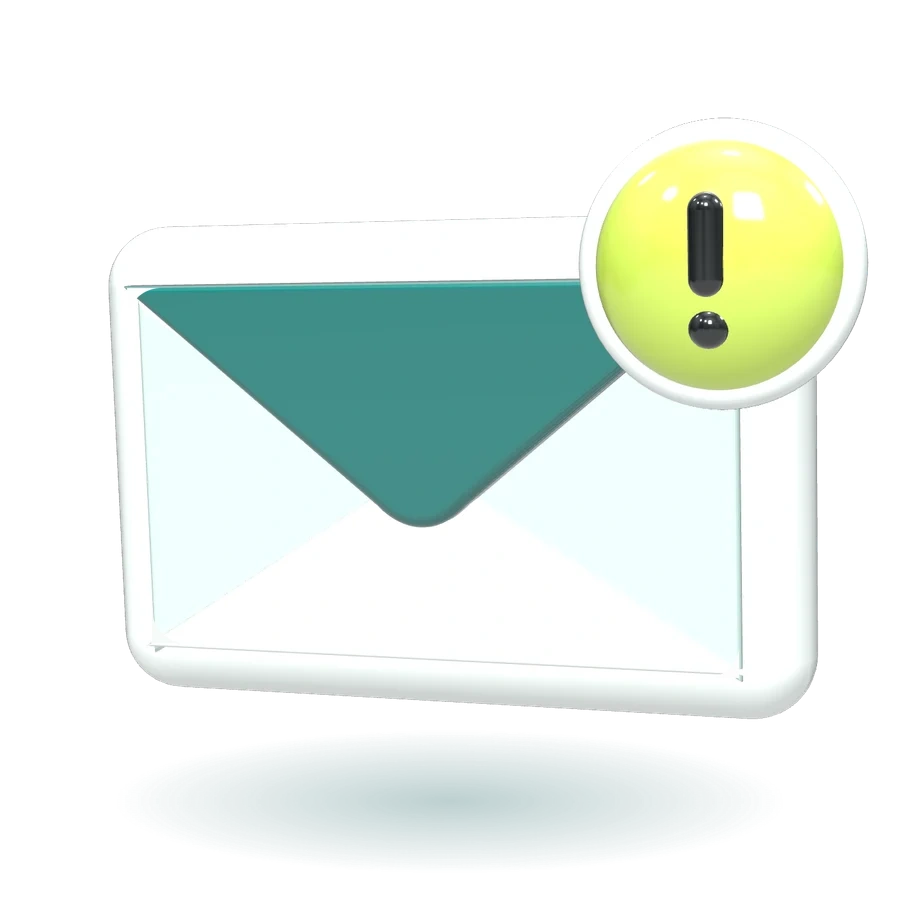
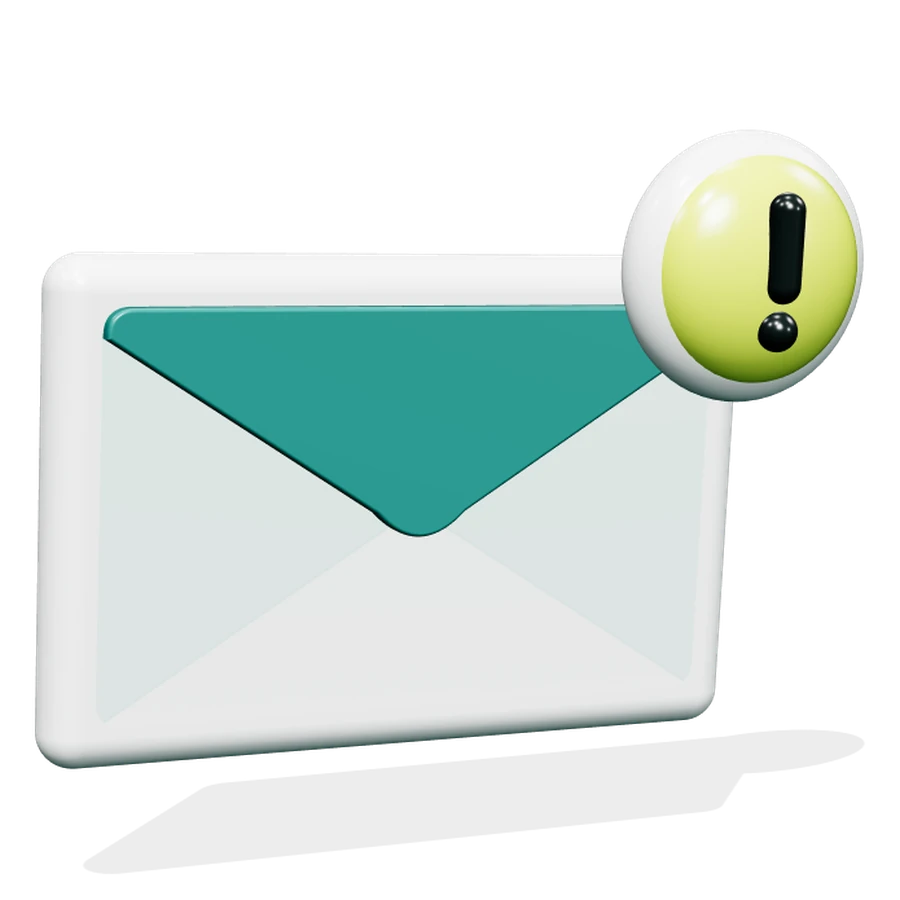
Version 12.1 (gebaut)
Claude-Session: https://claude.ai/code/session_018Wc4TpbFcR54odGWMa1RDx

diff --git a/en/start.html b/en/start.html
@@ -17,7 +17,7 @@
 <meta property="og:url" content="https://lou-digital.de/en/">
 <meta property="og:image" content="https://lou-digital.de/img/fig-web.webp?v=7ac4f9f6">
 <link rel="preload" href="/fonts/instrument-sans-latin-wght-normal.woff2" as="font" type="font/woff2" crossorigin>
-<link rel="stylesheet" href="/css/site.css?v=565d0e78">
+<link rel="stylesheet" href="/css/site.css?v=6f8ec4c9">
 <script>document.documentElement.classList.add('js');setTimeout(function(){if(!window.__ldReady)document.documentElement.classList.remove('js')},2500);</script>
 <script type="application/ld+json">{"@context": "https://schema.org", "@type": "ProfessionalService", "name": "Lou Digital", "url": "https://lou-digital.de/en/", "email": "info@lou-digital.de", "founder": {"@type": "Person", "name": "Adrian Semlinger"}, "address": {"@type": "PostalAddress", "addressLocality": "Karlsruhe", "addressRegion": "Baden-Württemberg", "addressCountry": "DE"}, "areaServed": "DE", "telephone": "+49 156 30163539"}</script>
 </head>
@@ -44,13 +44,13 @@
       </div>
       <div class="blocks" aria-hidden="true">
         <div class="blk blk--petrol"><img class="fig" src="/img/fig-web.webp?v=7ac4f9f6" width="900" height="900" alt="" style="--f:94%" decoding="async"></div>
-        <div class="blk blk--ink"><img class="fig" src="/img/fig-mail.webp?v=dfea19f3" width="900" height="900" alt="" style="--f:96%" decoding="async"></div>
+        <div class="blk blk--ink"><img class="fig" src="/img/fig-mail.webp?v=47e3529c" width="900" height="900" alt="" style="--f:96%" decoding="async"></div>
         <div class="blk blk--lime"><img class="fig" src="/img/fig-box.webp?v=d7bd06c3" width="900" height="900" alt="" style="--f:86%" decoding="async"></div>
         <div class="blk blk--mint dots"><img class="fig" src="/img/fig-clip.webp?v=ed7c0325" width="900" height="900" alt="" style="--f:98%" decoding="async"></div>
       </div>
     </div>
   </section>
-  <section class="sec sec--tight"><div class="wrap"><div class="teasers"><a class="teaser teaser--petrol" href="/en/websites" data-reveal style="--d:0.00s"><span><h3>Website in 7 days</h3><p>One-pager or up to 5 pages, from €390.</p><span class="go">View</span></span><img src="/img/fig-web.webp?v=7ac4f9f6" width="900" height="900" alt="" loading="lazy" decoding="async"></a><a class="teaser teaser--ink" href="/en/automation" data-reveal style="--d:0.06s"><span><h3>Inquiry automation</h3><p>Every inquiry instantly on your phone.</p><span class="go">View</span></span><img src="/img/fig-mail.webp?v=dfea19f3" width="900" height="900" alt="" loading="lazy" decoding="async"></a><a class="teaser teaser--mint dots" href="/en/website-check" data-reveal style="--d:0.12s"><span><h3>Website check</h3><p>Five checkpoints, free of charge.</p><span class="go">View</span></span><img src="/img/fig-clip.webp?v=ed7c0325" width="900" height="900" alt="" loading="lazy" decoding="async"></a><a class="teaser teaser--lime" href="/en/custom" data-reveal style="--d:0.18s"><span><h3>Custom package</h3><p>Pick building blocks, see the price instantly.</p><span class="go">View</span></span><img src="/img/fig-box.webp?v=d7bd06c3" width="900" height="900" alt="" loading="lazy" decoding="async"></a></div></div></section>
+  <section class="sec sec--tight"><div class="wrap"><div class="teasers"><a class="teaser teaser--petrol" href="/en/websites" data-reveal style="--d:0.00s"><span><h3>Website in 7 days</h3><p>One-pager or up to 5 pages, from €390.</p><span class="go">View</span></span><img src="/img/fig-web.webp?v=7ac4f9f6" width="900" height="900" alt="" loading="lazy" decoding="async"></a><a class="teaser teaser--ink" href="/en/automation" data-reveal style="--d:0.06s"><span><h3>Inquiry automation</h3><p>Every inquiry instantly on your phone.</p><span class="go">View</span></span><img src="/img/fig-mail.webp?v=47e3529c" width="900" height="900" alt="" loading="lazy" decoding="async"></a><a class="teaser teaser--mint" href="/en/website-check" data-reveal style="--d:0.12s"><span><h3>Website check</h3><p>Five checkpoints, free of charge.</p><span class="go">View</span></span><img src="/img/fig-clip.webp?v=ed7c0325" width="900" height="900" alt="" loading="lazy" decoding="async"></a><a class="teaser teaser--lime" href="/en/custom" data-reveal style="--d:0.18s"><span><h3>Custom package</h3><p>Pick building blocks, see the price instantly.</p><span class="go">View</span></span><img src="/img/fig-box.webp?v=d7bd06c3" width="900" height="900" alt="" loading="lazy" decoding="async"></a></div></div></section>
   <section class="sec" id="websites">
     <div class="wrap split">
       <div class="copy">
@@ -64,7 +64,7 @@
   </section>
   <section class="sec band" id="automatik">
     <div class="wrap split split--rev">
-      <div class="stage stage--petrol" data-reveal="scale"><img class="fig" src="/img/fig-mail.webp?v=dfea19f3" width="900" height="900" alt="" style="--f:66%" decoding="async"></div>
+      <div class="stage stage--petrol" data-reveal="scale"><img class="fig" src="/img/fig-mail.webp?v=47e3529c" width="900" height="900" alt="" style="--f:66%" decoding="async"></div>
       <div class="copy">
         <h2 class="h2" data-reveal>Inquiry automation</h2>
         <p class="muted" data-reveal style="--d:.05s">Every inquiry from your form reaches you instantly. No digging through your inbox, no inquiry gets lost.</p>
@@ -125,7 +125,7 @@
     </div>
     <div class="trio" aria-hidden="true" data-reveal="scale">
       <div class="blk blk--petrol"><img class="fig" src="/img/fig-web.webp?v=7ac4f9f6" width="900" height="900" alt="" style="--f:84%" decoding="async"></div>
-      <div class="blk blk--ink"><img class="fig" src="/img/fig-mail.webp?v=dfea19f3" width="900" height="900" alt="" style="--f:86%" decoding="async"></div>
+      <div class="blk blk--ink"><img class="fig" src="/img/fig-mail.webp?v=47e3529c" width="900" height="900" alt="" style="--f:86%" decoding="async"></div>
       <div class="blk blk--mint dots"><img class="fig" src="/img/fig-clip.webp?v=ed7c0325" width="900" height="900" alt="" style="--f:84%" decoding="async"></div>
     </div>
   </div>

diff --git a/start.html b/start.html
@@ -17,7 +17,7 @@
 <meta property="og:url" content="https://lou-digital.de/">
 <meta property="og:image" content="https://lou-digital.de/img/fig-web.webp?v=7ac4f9f6">
 <link rel="preload" href="/fonts/instrument-sans-latin-wght-normal.woff2" as="font" type="font/woff2" crossorigin>
-<link rel="stylesheet" href="/css/site.css?v=565d0e78">
+<link rel="stylesheet" href="/css/site.css?v=6f8ec4c9">
 <script>document.documentElement.classList.add('js');setTimeout(function(){if(!window.__ldReady)document.documentElement.classList.remove('js')},2500);</script>
 <script type="application/ld+json">{"@context": "https://schema.org", "@type": "ProfessionalService", "name": "Lou Digital", "url": "https://lou-digital.de/", "email": "info@lou-digital.de", "founder": {"@type": "Person", "name": "Adrian Semlinger"}, "address": {"@type": "PostalAddress", "addressLocality": "Karlsruhe", "addressRegion": "Baden-Württemberg", "addressCountry": "DE"}, "areaServed": "DE", "telephone": "+49 156 30163539"}</script>
 </head>
@@ -44,13 +44,13 @@
       </div>
       <div class="blocks" aria-hidden="true">
         <div class="blk blk--petrol"><img class="fig" src="/img/fig-web.webp?v=7ac4f9f6" width="900" height="900" alt="" style="--f:94%" decoding="async"></div>
-        <div class="blk blk--ink"><img class="fig" src="/img/fig-mail.webp?v=dfea19f3" width="900" height="900" alt="" style="--f:96%" decoding="async"></div>
+        <div class="blk blk--ink"><img class="fig" src="/img/fig-mail.webp?v=47e3529c" width="900" height="900" alt="" style="--f:96%" decoding="async"></div>
         <div class="blk blk--lime"><img class="fig" src="/img/fig-box.webp?v=d7bd06c3" width="900" height="900" alt="" style="--f:86%" decoding="async"></div>
         <div class="blk blk--mint dots"><img class="fig" src="/img/fig-clip.webp?v=ed7c0325" width="900" height="900" alt="" style="--f:98%" decoding="async"></div>
       </div>
     </div>
   </section>
-  <section class="sec sec--tight"><div class="wrap"><div class="teasers"><a class="teaser teaser--petrol" href="/websites" data-reveal style="--d:0.00s"><span><h3>Website in 7 Tagen</h3><p>Onepager oder bis zu 5 Seiten, ab 390 €.</p><span class="go">Ansehen</span></span><img src="/img/fig-web.webp?v=7ac4f9f6" width="900" height="900" alt="" loading="lazy" decoding="async"></a><a class="teaser teaser--ink" href="/automatik" data-reveal style="--d:0.06s"><span><h3>Anfrage-Automatik</h3><p>Jede Anfrage sofort auf Ihrem Handy.</p><span class="go">Ansehen</span></span><img src="/img/fig-mail.webp?v=dfea19f3" width="900" height="900" alt="" loading="lazy" decoding="async"></a><a class="teaser teaser--mint dots" href="/website-check" data-reveal style="--d:0.12s"><span><h3>Website-Check</h3><p>Fünf Prüfpunkte, kostenlos.</p><span class="go">Ansehen</span></span><img src="/img/fig-clip.webp?v=ed7c0325" width="900" height="900" alt="" loading="lazy" decoding="async"></a><a class="teaser teaser--lime" href="/individuell" data-reveal style="--d:0.18s"><span><h3>Individuelles Paket</h3><p>Bausteine wählen, Preis sofort sehen.</p><span class="go">Ansehen</span></span><img src="/img/fig-box.webp?v=d7bd06c3" width="900" height="900" alt="" loading="lazy" decoding="async"></a></div></div></section>
+  <section class="sec sec--tight"><div class="wrap"><div class="teasers"><a class="teaser teaser--petrol" href="/websites" data-reveal style="--d:0.00s"><span><h3>Website in 7 Tagen</h3><p>Onepager oder bis zu 5 Seiten, ab 390 €.</p><span class="go">Ansehen</span></span><img src="/img/fig-web.webp?v=7ac4f9f6" width="900" height="900" alt="" loading="lazy" decoding="async"></a><a class="teaser teaser--ink" href="/automatik" data-reveal style="--d:0.06s"><span><h3>Anfrage-Automatik</h3><p>Jede Anfrage sofort auf Ihrem Handy.</p><span class="go">Ansehen</span></span><img src="/img/fig-mail.webp?v=47e3529c" width="900" height="900" alt="" loading="lazy" decoding="async"></a><a class="teaser teaser--mint" href="/website-check" data-reveal style="--d:0.12s"><span><h3>Website-Check</h3><p>Fünf Prüfpunkte, kostenlos.</p><span class="go">Ansehen</span></span><img src="/img/fig-clip.webp?v=ed7c0325" width="900" height="900" alt="" loading="lazy" decoding="async"></a><a class="teaser teaser--lime" href="/individuell" data-reveal style="--d:0.18s"><span><h3>Individuelles Paket</h3><p>Bausteine wählen, Preis sofort sehen.</p><span class="go">Ansehen</span></span><img src="/img/fig-box.webp?v=d7bd06c3" width="900" height="900" alt="" loading="lazy" decoding="async"></a></div></div></section>
   <section class="sec" id="websites">
     <div class="wrap split">
       <div class="copy">
@@ -64,7 +64,7 @@
   </section>
   <section class="sec band" id="automatik">
     <div class="wrap split split--rev">
-      <div class="stage stage--petrol" data-reveal="scale"><img class="fig" src="/img/fig-mail.webp?v=dfea19f3" width="900" height="900" alt="" style="--f:66%" decoding="async"></div>
+      <div class="stage stage--petrol" data-reveal="scale"><img class="fig" src="/img/fig-mail.webp?v=47e3529c" width="900" height="900" alt="" style="--f:66%" decoding="async"></div>
       <div class="copy">
         <h2 class="h2" data-reveal>Anfrage-Automatik</h2>
         <p class="muted" data-reveal style="--d:.05s">Jede Anfrage aus Ihrem Formular kommt sofort bei Ihnen an. Kein Postfach durchsuchen, keine Anfrage geht verloren.</p>
@@ -125,7 +125,7 @@
     </div>
     <div class="trio" aria-hidden="true" data-reveal="scale">
       <div class="blk blk--petrol"><img class="fig" src="/img/fig-web.webp?v=7ac4f9f6" width="900" height="900" alt="" style="--f:84%" decoding="async"></div>
-      <div class="blk blk--ink"><img class="fig" src="/img/fig-mail.webp?v=dfea19f3" width="900" height="900" alt="" style="--f:86%" decoding="async"></div>
+      <div class="blk blk--ink"><img class="fig" src="/img/fig-mail.webp?v=47e3529c" width="900" height="900" alt="" style="--f:86%" decoding="async"></div>
       <div class="blk blk--mint dots"><img class="fig" src="/img/fig-clip.webp?v=ed7c0325" width="900" height="900" alt="" style="--f:84%" decoding="async"></div>
     </div>
   </div>

diff --git a/website-check.html b/website-check.html
@@ -17,7 +17,7 @@
 <meta property="og:url" content="https://lou-digital.de/website-check">
 <meta property="og:image" content="https://lou-digital.de/img/fig-web.webp?v=7ac4f9f6">
 <link rel="preload" href="/fonts/instrument-sans-latin-wght-normal.woff2" as="font" type="font/woff2" crossorigin>
-<link rel="stylesheet" href="/css/site.css?v=565d0e78">
+<link rel="stylesheet" href="/css/site.css?v=6f8ec4c9">
 <script>document.documentElement.classList.add('js');setTimeout(function(){if(!window.__ldReady)document.documentElement.classList.remove('js')},2500);</script>
 </head>
 <body>
@@ -50,21 +50,23 @@
   </div></section><section class="sec tint" id="check">
     <div class="wrap split">
       <div class="copy">
-        <h2 class="h2" data-reveal>Website-Check</h2>
+        <h2 class="h2" data-reveal>So sieht das Ergebnis aus</h2>
         <p data-reveal style="--d:.05s">Bevor ich etwas anbiete, prüfe ich Ihre Website an fünf Punkten. Sie bekommen ein Blatt mit dem Ergebnis und je einem Satz, was ein fehlender Punkt Sie kostet. Kostenlos und unverbindlich.</p>
         <div class="result" role="group" aria-label="Beispiel eines Website-Checks" data-reveal style="--d:.1s">
           <div class="result-head"><span class="muted">Beispiel: ihre-firma.de</span><span class="score">3<span>/5</span></span></div>
           <div class="bar" aria-hidden="true"><i class="on"></i><i class="on"></i><i class="on"></i><i></i><i></i></div>
           <ul class="checks"><li class="ok"><b aria-hidden="true">✓</b><span>Verschlüsselt über HTTPS</span><em>bestanden</em></li><li class="no"><b aria-hidden="true">✕</b><span>Auf dem Handy gut lesbar</span><em>fehlt</em></li><li class="ok"><b aria-hidden="true">✓</b><span>Impressum vorhanden</span><em>bestanden</em></li><li class="no"><b aria-hidden="true">✕</b><span>Datenschutzerklärung vorhanden</span><em>fehlt</em></li><li class="ok"><b aria-hidden="true">✓</b><span>Aussagekräftiger Seitentitel</span><em>bestanden</em></li></ul>
         </div>
-        <div class="row-actions" data-reveal><a class="btn btn--primary" href="/kontakt?pakete=check">Kostenlosen Check anfordern</a><a class="link" href="/website-check#sofort">Sofort selbst prüfen</a></div>
+        <div class="row-actions" data-reveal><a class="btn btn--primary" href="/kontakt?pakete=check">Kostenlosen Check anfordern</a></div>
       </div>
       <div class="stage stage--white dots" data-reveal="scale"><img class="fig" src="/img/fig-clip.webp?v=ed7c0325" width="900" height="900" alt="" style="--f:58%" decoding="async"></div>
     </div>
   </section>
-  <section class="sec"><div class="wrap split">
-    <div class="copy"><h2 class="h2" data-reveal>Was ich prüfe</h2><dl class="spec"><div data-reveal style="--d:0.00s"><dt>Verschlüsselung</dt><dd>Läuft Ihre Seite über HTTPS? Ohne Schloss warnen Browser Ihre Besucher.</dd></div><div data-reveal style="--d:0.05s"><dt>Handy</dt><dd>Ist alles auf dem Handy lesbar und bedienbar? Dort kommen die meisten Besucher her.</dd></div><div data-reveal style="--d:0.10s"><dt>Impressum</dt><dd>Ist ein Impressum vorhanden und erreichbar? Es ist für Unternehmen Pflicht.</dd></div><div data-reveal style="--d:0.15s"><dt>Datenschutz</dt><dd>Gibt es eine Datenschutzerklärung? Fehlt sie, drohen Abmahnungen.</dd></div><div data-reveal style="--d:0.20s"><dt>Seitentitel</dt><dd>Sagt der Titel, was Sie anbieten und wo? Davon hängt ab, ob Google Sie findet.</dd></div></dl></div>
-    <div></div>
+  <section class="sec checkpoints"><div class="wrap">
+    <div class="cp-head"><h2 class="h2" data-reveal>Was ich prüfe</h2>
+    <p class="lead" data-reveal style="--d:.06s">Fünf Punkte, die darüber entscheiden, ob Besucher Ihnen vertrauen, Google Sie findet und Ihre Website rechtlich sauber ist.</p></div>
+    <ol class="cp-grid"><li class="cp" data-reveal style="--d:0.00s"><span class="cp-n">01</span><h3>Verschlüsselung</h3><p>Läuft Ihre Seite über HTTPS? Ohne Schloss warnen Browser Ihre Besucher.</p></li><li class="cp" data-reveal style="--d:0.07s"><span class="cp-n">02</span><h3>Handy</h3><p>Ist alles auf dem Handy lesbar und bedienbar? Dort kommen die meisten Besucher her.</p></li><li class="cp" data-reveal style="--d:0.14s"><span class="cp-n">03</span><h3>Impressum</h3><p>Ist ein Impressum vorhanden und erreichbar? Es ist für Unternehmen Pflicht.</p></li><li class="cp" data-reveal style="--d:0.21s"><span class="cp-n">04</span><h3>Datenschutz</h3><p>Gibt es eine Datenschutzerklärung? Fehlt sie, drohen Abmahnungen.</p></li><li class="cp" data-reveal style="--d:0.28s"><span class="cp-n">05</span><h3>Seitentitel</h3><p>Sagt der Titel, was Sie anbieten und wo? Davon hängt ab, ob Google Sie findet.</p></li></ol>
+    <div class="cp-cta" data-reveal><a class="btn btn--primary" href="#sofort">Jetzt kostenlos prüfen</a></div>
   </div></section><section class="sec" id="ablauf">
   <div class="wrap close">
     <div>
@@ -73,7 +75,7 @@
     </div>
     <div class="trio" aria-hidden="true" data-reveal="scale">
       <div class="blk blk--petrol"><img class="fig" src="/img/fig-web.webp?v=7ac4f9f6" width="900" height="900" alt="" style="--f:84%" decoding="async"></div>
-      <div class="blk blk--ink"><img class="fig" src="/img/fig-mail.webp?v=dfea19f3" width="900" height="900" alt="" style="--f:86%" decoding="async"></div>
+      <div class="blk blk--ink"><img class="fig" src="/img/fig-mail.webp?v=47e3529c" width="900" height="900" alt="" style="--f:86%" decoding="async"></div>
       <div class="blk blk--mint dots"><img class="fig" src="/img/fig-clip.webp?v=ed7c0325" width="900" height="900" alt="" style="--f:84%" decoding="async"></div>
     </div>
   </div>

diff --git a/en/website-check.html b/en/website-check.html
@@ -17,7 +17,7 @@
 <meta property="og:url" content="https://lou-digital.de/en/website-check">
 <meta property="og:image" content="https://lou-digital.de/img/fig-web.webp?v=7ac4f9f6">
 <link rel="preload" href="/fonts/instrument-sans-latin-wght-normal.woff2" as="font" type="font/woff2" crossorigin>
-<link rel="stylesheet" href="/css/site.css?v=565d0e78">
+<link rel="stylesheet" href="/css/site.css?v=6f8ec4c9">
 <script>document.documentElement.classList.add('js');setTimeout(function(){if(!window.__ldReady)document.documentElement.classList.remove('js')},2500);</script>
 </head>
 <body>
@@ -50,21 +50,23 @@
   </div></section><section class="sec tint" id="check">
     <div class="wrap split">
       <div class="copy">
-        <h2 class="h2" data-reveal>Website check</h2>
+        <h2 class="h2" data-reveal>What the result looks like</h2>
         <p data-reveal style="--d:.05s">Before I offer anything, I check your website on five points. You get one page with the result and a sentence on what each missing point costs you. Free and without obligation.</p>
         <div class="result" role="group" aria-label="Example of a website check" data-reveal style="--d:.1s">
           <div class="result-head"><span class="muted">Example: your-company.com</span><span class="score">3<span>/5</span></span></div>
           <div class="bar" aria-hidden="true"><i class="on"></i><i class="on"></i><i class="on"></i><i></i><i></i></div>
           <ul class="checks"><li class="ok"><b aria-hidden="true">✓</b><span>Encrypted via HTTPS</span><em>passed</em></li><li class="no"><b aria-hidden="true">✕</b><span>Easy to read on a phone</span><em>missing</em></li><li class="ok"><b aria-hidden="true">✓</b><span>Legal notice present</span><em>passed</em></li><li class="no"><b aria-hidden="true">✕</b><span>Privacy policy present</span><em>missing</em></li><li class="ok"><b aria-hidden="true">✓</b><span>Meaningful page title</span><em>passed</em></li></ul>
         </div>
-        <div class="row-actions" data-reveal><a class="btn btn--primary" href="/en/contact?pakete=check">Request a free check</a><a class="link" href="/en/website-check#sofort">Check it yourself now</a></div>
+        <div class="row-actions" data-reveal><a class="btn btn--primary" href="/en/contact?pakete=check">Request a free check</a></div>
       </div>
       <div class="stage stage--white dots" data-reveal="scale"><img class="fig" src="/img/fig-clip.webp?v=ed7c0325" width="900" height="900" alt="" style="--f:58%" decoding="async"></div>
     </div>
   </section>
-  <section class="sec"><div class="wrap split">
-    <div class="copy"><h2 class="h2" data-reveal>What I check</h2><dl class="spec"><div data-reveal style="--d:0.00s"><dt>Encryption</dt><dd>Does your site run on HTTPS? Without the padlock, browsers warn your visitors.</dd></div><div data-reveal style="--d:0.05s"><dt>Mobile</dt><dd>Is everything readable and usable on a phone? That’s where most visitors come from.</dd></div><div data-reveal style="--d:0.10s"><dt>Legal notice</dt><dd>Is a legal notice present and reachable? It’s mandatory for businesses in Germany.</dd></div><div data-reveal style="--d:0.15s"><dt>Privacy</dt><dd>Is there a privacy policy? Without one, you risk formal warnings.</dd></div><div data-reveal style="--d:0.20s"><dt>Page title</dt><dd>Does the title say what you offer and where? It decides whether Google finds you.</dd></div></dl></div>
-    <div></div>
+  <section class="sec checkpoints"><div class="wrap">
+    <div class="cp-head"><h2 class="h2" data-reveal>What I check</h2>
+    <p class="lead" data-reveal style="--d:.06s">Five points that decide whether visitors trust you, Google finds you and your website is legally sound.</p></div>
+    <ol class="cp-grid"><li class="cp" data-reveal style="--d:0.00s"><span class="cp-n">01</span><h3>Encryption</h3><p>Does your site run on HTTPS? Without the padlock, browsers warn your visitors.</p></li><li class="cp" data-reveal style="--d:0.07s"><span class="cp-n">02</span><h3>Mobile</h3><p>Is everything readable and usable on a phone? That’s where most visitors come from.</p></li><li class="cp" data-reveal style="--d:0.14s"><span class="cp-n">03</span><h3>Legal notice</h3><p>Is a legal notice present and reachable? It’s mandatory for businesses in Germany.</p></li><li class="cp" data-reveal style="--d:0.21s"><span class="cp-n">04</span><h3>Privacy</h3><p>Is there a privacy policy? Without one, you risk formal warnings.</p></li><li class="cp" data-reveal style="--d:0.28s"><span class="cp-n">05</span><h3>Page title</h3><p>Does the title say what you offer and where? It decides whether Google finds you.</p></li></ol>
+    <div class="cp-cta" data-reveal><a class="btn btn--primary" href="#sofort">Check for free now</a></div>
   </div></section><section class="sec" id="ablauf">
   <div class="wrap close">
     <div>
@@ -73,7 +75,7 @@
     </div>
     <div class="trio" aria-hidden="true" data-reveal="scale">
       <div class="blk blk--petrol"><img class="fig" src="/img/fig-web.webp?v=7ac4f9f6" width="900" height="900" alt="" style="--f:84%" decoding="async"></div>
-      <div class="blk blk--ink"><img class="fig" src="/img/fig-mail.webp?v=dfea19f3" width="900" height="900" alt="" style="--f:86%" decoding="async"></div>
+      <div class="blk blk--ink"><img class="fig" src="/img/fig-mail.webp?v=47e3529c" width="900" height="900" alt="" style="--f:86%" decoding="async"></div>
       <div class="blk blk--mint dots"><img class="fig" src="/img/fig-clip.webp?v=ed7c0325" width="900" height="900" alt="" style="--f:84%" decoding="async"></div>
     </div>
   </div>

diff --git a/ueber-mich.html b/ueber-mich.html
@@ -17,7 +17,7 @@
 <meta property="og:url" content="https://lou-digital.de/ueber-mich">
 <meta property="og:image" content="https://lou-digital.de/img/fig-web.webp?v=7ac4f9f6">
 <link rel="preload" href="/fonts/instrument-sans-latin-wght-normal.woff2" as="font" type="font/woff2" crossorigin>
-<link rel="stylesheet" href="/css/site.css?v=565d0e78">
+<link rel="stylesheet" href="/css/site.css?v=6f8ec4c9">
 <script>document.documentElement.classList.add('js');setTimeout(function(){if(!window.__ldReady)document.documentElement.classList.remove('js')},2500);</script>
 </head>
 <body>
@@ -43,8 +43,8 @@
         <p class="lead" data-reveal>Websites und Automatisierung, die nach der Übergabe einfach weiterlaufen.</p>
         <p data-reveal style="--d:.05s">Ich komme aus dem Kaufmännischen: Einkauf, Angebote, Rechnungswesen. Deshalb weiß ich, wie viel Zeit in Abläufen steckt, die sich automatisieren lassen, und wie wichtig ein klarer Preis vor dem Start ist.</p>
         <p data-reveal style="--d:.1s">Ich arbeite mit festen Paketen und Werkzeugen, die nach der Übergabe weiterlaufen. Domain und Zugänge laufen auf Ihren Namen. Was ich baue, erkläre ich so, dass Sie es ohne mich bedienen können.</p>
-        <dl class="spec" data-reveal style="--d:.15s"><div><dt>Sitz</dt><dd>Karlsruhe</dd></div><div><dt>Arbeitsweise</dt><dd>Feste Pakete, ein Ansprechpartner</dd></div><div><dt>Kontakt</dt><dd><a class="mailto" href="mailto:info@lou-digital.de">info@lou-digital.de</a></dd></div></dl>
-        <div class="row-actions" data-reveal><a class="btn btn--primary" href="/kontakt">Anfrage senden</a></div>
+        <dl class="spec" data-reveal style="--d:.15s"><div><dt>Sitz</dt><dd>Karlsruhe</dd></div><div><dt>Arbeitsweise</dt><dd>Feste Pakete, ein Ansprechpartner</dd></div><div><dt>E-Mail</dt><dd><a class="mailto" href="mailto:adrian.semlinger@lou-digital.de">adrian.semlinger@lou-digital.de</a></dd></div><div><dt>Telefon</dt><dd><a class="mailto" href="tel:+4915630163539">+49 156 30163539</a></dd></div><div><dt>Allgemein</dt><dd><a class="mailto" href="mailto:info@lou-digital.de">info@lou-digital.de</a></dd></div></dl>
+        <div class="row-actions" data-reveal><a class="btn btn--primary" href="/kontakt">Anfrage senden</a><a class="btn btn--line" href="tel:+4915630163539" data-track="Anruf Über mich">Anrufen</a><a class="link" href="mailto:adrian.semlinger@lou-digital.de">E-Mail an Adrian</a></div>
       </div>
   </div></section><section class="sec" id="ablauf">
   <div class="wrap close">
@@ -54,7 +54,7 @@
     </div>
     <div class="trio" aria-hidden="true" data-reveal="scale">
       <div class="blk blk--petrol"><img class="fig" src="/img/fig-web.webp?v=7ac4f9f6" width="900" height="900" alt="" style="--f:84%" decoding="async"></div>
-      <div class="blk blk--ink"><img class="fig" src="/img/fig-mail.webp?v=dfea19f3" width="900" height="900" alt="" style="--f:86%" decoding="async"></div>
+      <div class="blk blk--ink"><img class="fig" src="/img/fig-mail.webp?v=47e3529c" width="900" height="900" alt="" style="--f:86%" decoding="async"></div>
       <div class="blk blk--mint dots"><img class="fig" src="/img/fig-clip.webp?v=ed7c0325" width="900" height="900" alt="" style="--f:84%" decoding="async"></div>
     </div>
   </div>

diff --git a/en/about.html b/en/about.html
@@ -17,7 +17,7 @@
 <meta property="og:url" content="https://lou-digital.de/en/about">
 <meta property="og:image" content="https://lou-digital.de/img/fig-web.webp?v=7ac4f9f6">
 <link rel="preload" href="/fonts/instrument-sans-latin-wght-normal.woff2" as="font" type="font/woff2" crossorigin>
-<link rel="stylesheet" href="/css/site.css?v=565d0e78">
+<link rel="stylesheet" href="/css/site.css?v=6f8ec4c9">
 <script>document.documentElement.classList.add('js');setTimeout(function(){if(!window.__ldReady)document.documentElement.classList.remove('js')},2500);</script>
 </head>
 <body>
@@ -43,8 +43,8 @@
         <p class="lead" data-reveal>Websites and automation that simply keep running after handover.</p>
         <p data-reveal style="--d:.05s">My background is in business: purchasing, quotes and accounting. That’s why I know how much time goes into processes that could be automated, and how important a clear price is before you start.</p>
         <p data-reveal style="--d:.1s">I work with fixed packages and tools that keep running after handover. Domain and accounts are registered in your name. I explain what I build so you can run it without me.</p>
-        <dl class="spec" data-reveal style="--d:.15s"><div><dt>Based in</dt><dd>Karlsruhe</dd></div><div><dt>Way of working</dt><dd>Fixed packages, one point of contact</dd></div><div><dt>Contact</dt><dd><a class="mailto" href="mailto:info@lou-digital.de">info@lou-digital.de</a></dd></div></dl>
-        <div class="row-actions" data-reveal><a class="btn btn--primary" href="/en/contact">Send an inquiry</a></div>
+        <dl class="spec" data-reveal style="--d:.15s"><div><dt>Based in</dt><dd>Karlsruhe</dd></div><div><dt>Way of working</dt><dd>Fixed packages, one point of contact</dd></div><div><dt>Email</dt><dd><a class="mailto" href="mailto:adrian.semlinger@lou-digital.de">adrian.semlinger@lou-digital.de</a></dd></div><div><dt>Phone</dt><dd><a class="mailto" href="tel:+4915630163539">+49 156 30163539</a></dd></div><div><dt>General</dt><dd><a class="mailto" href="mailto:info@lou-digital.de">info@lou-digital.de</a></dd></div></dl>
+        <div class="row-actions" data-reveal><a class="btn btn--primary" href="/en/contact">Send an inquiry</a><a class="btn btn--line" href="tel:+4915630163539" data-track="Anruf Über mich">Call</a><a class="link" href="mailto:adrian.semlinger@lou-digital.de">Email Adrian</a></div>
       </div>
   </div></section><section class="sec" id="ablauf">
   <div class="wrap close">
@@ -54,7 +54,7 @@
     </div>
     <div class="trio" aria-hidden="true" data-reveal="scale">
       <div class="blk blk--petrol"><img class="fig" src="/img/fig-web.webp?v=7ac4f9f6" width="900" height="900" alt="" style="--f:84%" decoding="async"></div>
-      <div class="blk blk--ink"><img class="fig" src="/img/fig-mail.webp?v=dfea19f3" width="900" height="900" alt="" style="--f:86%" decoding="async"></div>
+      <div class="blk blk--ink"><img class="fig" src="/img/fig-mail.webp?v=47e3529c" width="900" height="900" alt="" style="--f:86%" decoding="async"></div>
       <div class="blk blk--mint dots"><img class="fig" src="/img/fig-clip.webp?v=ed7c0325" width="900" height="900" alt="" style="--f:84%" decoding="async"></div>
     </div>
   </div>

diff --git a/fragen.html b/fragen.html
@@ -17,7 +17,7 @@
 <meta property="og:url" content="https://lou-digital.de/fragen">
 <meta property="og:image" content="https://lou-digital.de/img/fig-web.webp?v=7ac4f9f6">
 <link rel="preload" href="/fonts/instrument-sans-latin-wght-normal.woff2" as="font" type="font/woff2" crossorigin>
-<link rel="stylesheet" href="/css/site.css?v=565d0e78">
+<link rel="stylesheet" href="/css/site.css?v=6f8ec4c9">
 <script>document.documentElement.classList.add('js');setTimeout(function(){if(!window.__ldReady)document.documentElement.classList.remove('js')},2500);</script>
 <script type="application/ld+json">{"@context": "https://schema.org", "@type": "FAQPage", "mainEntity": [{"@type": "Question", "name": "Was kostet eine Website bei Ihnen?", "acceptedAnswer": {"@type": "Answer", "text": "Die Website in 7 Tagen kostet 390 € als Pilotpreis für die ersten drei Kunden, danach 790 bis 990 €. Alle Preise ohne Umsatzsteuer, weil ich Kleinunternehmer nach § 19 UStG bin."}}, {"@type": "Question", "name": "Wem gehören Domain und Website?", "acceptedAnswer": {"@type": "Answer", "text": "Ihnen. Domain, Hosting und Zugänge laufen auf Ihren Namen. Wenn Sie später wechseln wollen, nehmen Sie alles mit."}}, {"@type": "Question", "name": "Was brauche ich, damit es losgehen kann?", "acceptedAnswer": {"@type": "Answer", "text": "Einen ausgefüllten Fragebogen mit Logo, Fotos, Leistungen, Öffnungszeiten und den Angaben für das Impressum. Ab dann laufen die 7 Tage. Zum Einstieg reicht der kostenlose Website-Check."}}, {"@type": "Question", "name": "Schreiben Sie auch Impressum und Datenschutzerklärung?", "acceptedAnswer": {"@type": "Answer", "text": "Ich lege die Struktur an und baue die Seiten ein. Die Texte kommen von Ihnen oder aus einem Generator. Verbindlich prüfen lassen Sie sie am besten von einer Anwältin oder einem Anwalt."}}, {"@type": "Question", "name": "Was ist in der Betreuung enthalten?", "acceptedAnswer": {"@type": "Answer", "text": "Überwachung, ob die Seite erreichbar ist, Backups, Updates und ein kurzer Monatsbericht. In M sind 30 Minuten Änderungen im Monat enthalten, in L eine Stunde."}}, {"@type": "Question", "name": "Wie schnell melden Sie sich nach einer Anfrage?", "acceptedAnswer": {"@type": "Answer", "text": "Sie bekommen sofort eine Bestätigung per E-Mail und von mir eine persönliche Antwort, in der Regel innerhalb von 24 Stunden an Werktagen. Melde ich mich später, erhalten Sie 10 % Rabatt auf Ihr erstes Paket."}}, {"@type": "Question", "name": "Arbeiten Sie nur in Karlsruhe?", "acceptedAnswer": {"@type": "Answer", "text": "Ich sitze in Karlsruhe und arbeite gerne persönlich vor Ort. Ich reise aber auch gern: Termine außerhalb von Karlsruhe sind kein Problem. Wir besprechen sie kurz vorab, und Anfahrt und Zeit plane ich im Preis ein. Alles andere läuft per E-Mail und Telefon, deutschlandweit."}}]}</script>
 </head>

diff --git a/automatik.html b/automatik.html
@@ -17,7 +17,7 @@
 <meta property="og:url" content="https://lou-digital.de/automatik">
 <meta property="og:image" content="https://lou-digital.de/img/fig-web.webp?v=7ac4f9f6">
 <link rel="preload" href="/fonts/instrument-sans-latin-wght-normal.woff2" as="font" type="font/woff2" crossorigin>
-<link rel="stylesheet" href="/css/site.css?v=565d0e78">
+<link rel="stylesheet" href="/css/site.css?v=6f8ec4c9">
 <script>document.documentElement.classList.add('js');setTimeout(function(){if(!window.__ldReady)document.documentElement.classList.remove('js')},2500);</script>
 </head>
 <body>
@@ -38,9 +38,9 @@
   <p class="lead" data-reveal style="--d:.08s">Ihr Formular, Ihre Tabelle und Ihr Handy arbeiten zusammen. Keine Anfrage geht mehr verloren.</p>
 </div></section><section class="sec band" id="automatik">
     <div class="wrap split split--rev">
-      <div class="stage stage--petrol" data-reveal="scale"><img class="fig" src="/img/fig-mail.webp?v=dfea19f3" width="900" height="900" alt="" style="--f:66%" decoding="async"></div>
+      <div class="stage stage--petrol" data-reveal="scale"><img class="fig" src="/img/fig-mail.webp?v=47e3529c" width="900" height="900" alt="" style="--f:66%" decoding="async"></div>
       <div class="copy">
-        <h2 class="h2" data-reveal>Anfrage-Automatik</h2>
+        
         <p class="muted" data-reveal style="--d:.05s">Jede Anfrage aus Ihrem Formular kommt sofort bei Ihnen an. Kein Postfach durchsuchen, keine Anfrage geht verloren.</p>
         <ol class="flow" data-reveal style="--d:.1s"><li>Ihr Kunde füllt das Formular auf Ihrer Website aus.</li><li>Die Anfrage landet geordnet in Ihrer Tabelle.</li><li>Sie bekommen sofort eine Nachricht aufs Handy.</li><li>Ihr Kunde erhält automatisch eine Bestätigung.</li><li>Nach dem Auftrag geht eine Bitte um Bewertung raus.</li></ol>
         <p class="muted" data-reveal>Die Automatik läuft auf Werkzeugen, die nach der Übergabe weiterlaufen. Sie brauchen dafür kein eigenes Programm, nur Ihr Handy und eine Tabelle.</p>
@@ -56,7 +56,7 @@
     </div>
     <div class="trio" aria-hidden="true" data-reveal="scale">
       <div class="blk blk--petrol"><img class="fig" src="/img/fig-web.webp?v=7ac4f9f6" width="900" height="900" alt="" style="--f:84%" decoding="async"></div>
-      <div class="blk blk--ink"><img class="fig" src="/img/fig-mail.webp?v=dfea19f3" width="900" height="900" alt="" style="--f:86%" decoding="async"></div>
+      <div class="blk blk--ink"><img class="fig" src="/img/fig-mail.webp?v=47e3529c" width="900" height="900" alt="" style="--f:86%" decoding="async"></div>
       <div class="blk blk--mint dots"><img class="fig" src="/img/fig-clip.webp?v=ed7c0325" width="900" height="900" alt="" style="--f:84%" decoding="async"></div>
     </div>
   </div>

diff --git a/en/automation.html b/en/automation.html
@@ -17,7 +17,7 @@
 <meta property="og:url" content="https://lou-digital.de/en/automation">
 <meta property="og:image" content="https://lou-digital.de/img/fig-web.webp?v=7ac4f9f6">
 <link rel="preload" href="/fonts/instrument-sans-latin-wght-normal.woff2" as="font" type="font/woff2" crossorigin>
-<link rel="stylesheet" href="/css/site.css?v=565d0e78">
+<link rel="stylesheet" href="/css/site.css?v=6f8ec4c9">
 <script>document.documentElement.classList.add('js');setTimeout(function(){if(!window.__ldReady)document.documentElement.classList.remove('js')},2500);</script>
 </head>
 <body>
@@ -38,9 +38,9 @@
   <p class="lead" data-reveal style="--d:.08s">Your form, your spreadsheet and your phone work together. No inquiry gets lost again.</p>
 </div></section><section class="sec band" id="automatik">
     <div class="wrap split split--rev">
-      <div class="stage stage--petrol" data-reveal="scale"><img class="fig" src="/img/fig-mail.webp?v=dfea19f3" width="900" height="900" alt="" style="--f:66%" decoding="async"></div>
+      <div class="stage stage--petrol" data-reveal="scale"><img class="fig" src="/img/fig-mail.webp?v=47e3529c" width="900" height="900" alt="" style="--f:66%" decoding="async"></div>
       <div class="copy">
-        <h2 class="h2" data-reveal>Inquiry automation</h2>
+        
         <p class="muted" data-reveal style="--d:.05s">Every inquiry from your form reaches you instantly. No digging through your inbox, no inquiry gets lost.</p>
         <ol class="flow" data-reveal style="--d:.1s"><li>Your customer fills in the form on your website.</li><li>The inquiry lands neatly in your spreadsheet.</li><li>You get a message on your phone right away.</li><li>Your customer automatically receives a confirmation.</li><li>After the job, a review request goes out.</li></ol>
         <p class="muted" data-reveal>The automation runs on tools that keep working after handover. You need no extra software, just your phone and a spreadsheet.</p>
@@ -56,7 +56,7 @@
     </div>
     <div class="trio" aria-hidden="true" data-reveal="scale">
       <div class="blk blk--petrol"><img class="fig" src="/img/fig-web.webp?v=7ac4f9f6" width="900" height="900" alt="" style="--f:84%" decoding="async"></div>
-      <div class="blk blk--ink"><img class="fig" src="/img/fig-mail.webp?v=dfea19f3" width="900" height="900" alt="" style="--f:86%" decoding="async"></div>
+      <div class="blk blk--ink"><img class="fig" src="/img/fig-mail.webp?v=47e3529c" width="900" height="900" alt="" style="--f:86%" decoding="async"></div>
       <div class="blk blk--mint dots"><img class="fig" src="/img/fig-clip.webp?v=ed7c0325" width="900" height="900" alt="" style="--f:84%" decoding="async"></div>
     </div>
   </div>

diff --git a/en/faq.html b/en/faq.html
@@ -17,7 +17,7 @@
 <meta property="og:url" content="https://lou-digital.de/en/faq">
 <meta property="og:image" content="https://lou-digital.de/img/fig-web.webp?v=7ac4f9f6">
 <link rel="preload" href="/fonts/instrument-sans-latin-wght-normal.woff2" as="font" type="font/woff2" crossorigin>
-<link rel="stylesheet" href="/css/site.css?v=565d0e78">
+<link rel="stylesheet" href="/css/site.css?v=6f8ec4c9">
 <script>document.documentElement.classList.add('js');setTimeout(function(){if(!window.__ldReady)document.documentElement.classList.remove('js')},2500);</script>
 <script type="application/ld+json">{"@context": "https://schema.org", "@type": "FAQPage", "mainEntity": [{"@type": "Question", "name": "How much does a website cost?", "acceptedAnswer": {"@type": "Answer", "text": "The website in 7 days costs €390 as a pilot price for the first three clients, then €790 to €990. No VAT is charged because I’m a small business under § 19 UStG."}}, {"@type": "Question", "name": "Who owns the domain and website?", "acceptedAnswer": {"@type": "Answer", "text": "You do. Domain, hosting and accounts are in your name. If you want to switch later, you take everything with you."}}, {"@type": "Question", "name": "What do I need to get started?", "acceptedAnswer": {"@type": "Answer", "text": "A completed questionnaire with your logo, photos, services, opening hours and the details for the legal notice. The 7 days start from then. To begin, the free website check is enough."}}, {"@type": "Question", "name": "Do you write the legal notice and privacy policy?", "acceptedAnswer": {"@type": "Answer", "text": "I set up the structure and build the pages. The texts come from you or from a generator. For a binding review, it’s best to consult a lawyer."}}, {"@type": "Question", "name": "What’s included in maintenance?", "acceptedAnswer": {"@type": "Answer", "text": "Uptime monitoring, backups, updates and a short monthly report. M includes 30 minutes of changes per month, L includes one hour."}}, {"@type": "Question", "name": "How quickly will you get back to me?", "acceptedAnswer": {"@type": "Answer", "text": "You get a confirmation by email right away and a personal reply from me, usually within 24 hours on working days. If I take longer, you get 10% off your first package."}}, {"@type": "Question", "name": "Do you only work in Karlsruhe?", "acceptedAnswer": {"@type": "Answer", "text": "I’m based in Karlsruhe and happy to work with you in person. I also like to travel: appointments outside Karlsruhe are no problem. We’ll discuss it briefly up front, and I’ll include travel and time in the price. Everything else runs by email and phone across Germany."}}]}</script>
 </head>

diff --git a/kontakt.html b/kontakt.html
@@ -17,7 +17,7 @@
 <meta property="og:url" content="https://lou-digital.de/kontakt">
 <meta property="og:image" content="https://lou-digital.de/img/fig-web.webp?v=7ac4f9f6">
 <link rel="preload" href="/fonts/instrument-sans-latin-wght-normal.woff2" as="font" type="font/woff2" crossorigin>
-<link rel="stylesheet" href="/css/site.css?v=565d0e78">
+<link rel="stylesheet" href="/css/site.css?v=6f8ec4c9">
 <script>document.documentElement.classList.add('js');setTimeout(function(){if(!window.__ldReady)document.documentElement.classList.remove('js')},2500);</script>
 </head>
 <body>
@@ -37,8 +37,8 @@
   <h1 data-reveal>Anfrage senden</h1>
   <p class="lead" data-reveal style="--d:.08s">Wählen Sie, was Sie interessiert, oder vereinbaren Sie direkt ein Gespräch. Sie bekommen sofort eine Bestätigung und von mir eine persönliche Antwort.</p>
 </div></section>
-  <section class="sec sec--tight"><div class="wrap close">
-    <div>
+  <section class="sec sec--tight"><div class="wrap close kontakt-grid">
+    <div class="k-side">
       <div class="contact-quick" data-reveal>
         <a class="cq" href="tel:+4915630163539" data-track="Anruf"><span class="cq-i" aria-hidden="true"><svg viewBox="0 0 24 24"><path d="M6.6 10.8a15.1 15.1 0 0 0 6.6 6.6l2.2-2.2c.3-.3.7-.4 1-.2 1.1.4 2.3.6 3.6.6.6 0 1 .4 1 1V20c0 .6-.4 1-1 1A17 17 0 0 1 3 4c0-.6.4-1 1-1h3.5c.6 0 1 .4 1 1 0 1.3.2 2.5.6 3.6.1.3 0 .7-.2 1z" fill="currentColor"/></svg></span><span><b>Anrufen</b><small>+49 156 30163539</small></span></a>
         <a class="cq" href="mailto:info@lou-digital.de" data-track="E-Mail"><span class="cq-i" aria-hidden="true"><svg viewBox="0 0 24 24"><path d="M3 6.5A1.5 1.5 0 0 1 4.5 5h15A1.5 1.5 0 0 1 21 6.5v11a1.5 1.5 0 0 1-1.5 1.5h-15A1.5 1.5 0 0 1 3 17.5zm2 .9v.3l7 4.6 7-4.6v-.3z" fill="currentColor"/></svg></span><span><b>E-Mail</b><small>info@lou-digital.de</small></span></a>
@@ -50,7 +50,7 @@
       </div>
       <div class="trio" aria-hidden="true" data-reveal="scale">
         <div class="blk blk--petrol"><img class="fig" src="/img/fig-web.webp?v=7ac4f9f6" width="900" height="900" alt="" style="--f:84%" decoding="async"></div>
-        <div class="blk blk--ink"><img class="fig" src="/img/fig-mail.webp?v=dfea19f3" width="900" height="900" alt="" style="--f:86%" decoding="async"></div>
+        <div class="blk blk--ink"><img class="fig" src="/img/fig-mail.webp?v=47e3529c" width="900" height="900" alt="" style="--f:86%" decoding="async"></div>
         <div class="blk blk--lime"><img class="fig" src="/img/fig-box.webp?v=d7bd06c3" width="900" height="900" alt="" style="--f:90%" decoding="async"></div>
       </div>
     </div>

diff --git a/en/contact.html b/en/contact.html
@@ -17,7 +17,7 @@
 <meta property="og:url" content="https://lou-digital.de/en/contact">
 <meta property="og:image" content="https://lou-digital.de/img/fig-web.webp?v=7ac4f9f6">
 <link rel="preload" href="/fonts/instrument-sans-latin-wght-normal.woff2" as="font" type="font/woff2" crossorigin>
-<link rel="stylesheet" href="/css/site.css?v=565d0e78">
+<link rel="stylesheet" href="/css/site.css?v=6f8ec4c9">
 <script>document.documentElement.classList.add('js');setTimeout(function(){if(!window.__ldReady)document.documentElement.classList.remove('js')},2500);</script>
 </head>
 <body>
@@ -37,8 +37,8 @@
   <h1 data-reveal>Send an inquiry</h1>
   <p class="lead" data-reveal style="--d:.08s">Choose what interests you, or book a call straight away. You get a confirmation right away and a personal reply from me.</p>
 </div></section>
-  <section class="sec sec--tight"><div class="wrap close">
-    <div>
+  <section class="sec sec--tight"><div class="wrap close kontakt-grid">
+    <div class="k-side">
       <div class="contact-quick" data-reveal>
         <a class="cq" href="tel:+4915630163539" data-track="Anruf"><span class="cq-i" aria-hidden="true"><svg viewBox="0 0 24 24"><path d="M6.6 10.8a15.1 15.1 0 0 0 6.6 6.6l2.2-2.2c.3-.3.7-.4 1-.2 1.1.4 2.3.6 3.6.6.6 0 1 .4 1 1V20c0 .6-.4 1-1 1A17 17 0 0 1 3 4c0-.6.4-1 1-1h3.5c.6 0 1 .4 1 1 0 1.3.2 2.5.6 3.6.1.3 0 .7-.2 1z" fill="currentColor"/></svg></span><span><b>Call</b><small>+49 156 30163539</small></span></a>
         <a class="cq" href="mailto:info@lou-digital.de" data-track="E-Mail"><span class="cq-i" aria-hidden="true"><svg viewBox="0 0 24 24"><path d="M3 6.5A1.5 1.5 0 0 1 4.5 5h15A1.5 1.5 0 0 1 21 6.5v11a1.5 1.5 0 0 1-1.5 1.5h-15A1.5 1.5 0 0 1 3 17.5zm2 .9v.3l7 4.6 7-4.6v-.3z" fill="currentColor"/></svg></span><span><b>E-Mail</b><small>info@lou-digital.de</small></span></a>
@@ -50,7 +50,7 @@
       </div>
       <div class="trio" aria-hidden="true" data-reveal="scale">
         <div class="blk blk--petrol"><img class="fig" src="/img/fig-web.webp?v=7ac4f9f6" width="900" height="900" alt="" style="--f:84%" decoding="async"></div>
-        <div class="blk blk--ink"><img class="fig" src="/img/fig-mail.webp?v=dfea19f3" width="900" height="900" alt="" style="--f:86%" decoding="async"></div>
+        <div class="blk blk--ink"><img class="fig" src="/img/fig-mail.webp?v=47e3529c" width="900" height="900" alt="" style="--f:86%" decoding="async"></div>
         <div class="blk blk--lime"><img class="fig" src="/img/fig-box.webp?v=d7bd06c3" width="900" height="900" alt="" style="--f:90%" decoding="async"></div>
       </div>
     </div>
